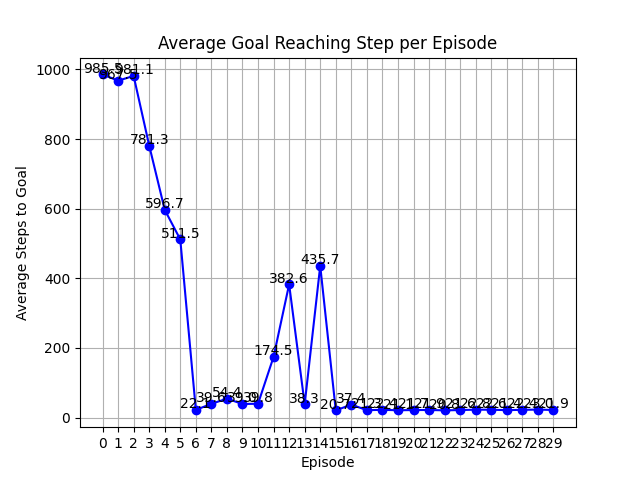
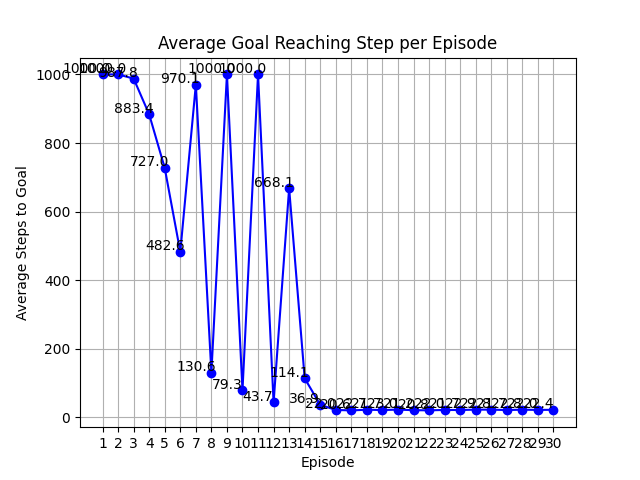
add

Changed region(s): [[0.0625, 0.125, 0.9062, 0.875], [0.1562, 0.9062, 0.875, 0.9375], [0.0625, 0.4062, 0.125, 0.4688]]

diff --git a/Q_plot_eps.py b/Q_plot_eps.py
@@ -56,11 +56,11 @@ def calculate_average_goal_time():
 
 goal_times = calculate_average_goal_time()
 
-plt.plot(range(episodes), goal_times, marker='o', linestyle='-', color='b')
+plt.plot(range(1,episodes+1), goal_times, marker='o', linestyle='-', color='b')
 plt.title('Average Goal Reaching Step per Episode')
 plt.xlabel('Episode')
 plt.ylabel('Average Steps to Goal')
-plt.xticks(range(episodes))
+plt.xticks(range(1,episodes+1))
 plt.grid(True)
 
 for i, goal_time in enumerate(goal_times):

diff --git a/Q_train.py b/Q_train.py
@@ -51,6 +51,6 @@ for episode in range(episodes):
 
     if episode % 1 == 0 or episode == episodes - 1:
         policy = [actions[np.argmax(Q_table[state])] for state in range(n_states)]
-        np.save(f'policy/episode_{episode}.npy', policy)
+        np.save(f'policy/episode_{episode+1}.npy', policy)
 
 print("学習終了")

diff --git a/Q_plot_animation_eps.py b/Q_plot_animation_eps.py
@@ -14,7 +14,7 @@ obstacles = env_settings['obstacles']
 water = env_settings['water']
 actions = env_settings['actions']
 
-episode = 14
+episode = 1
 policy = np.load(f'policy/episode_{episode}.npy')
 
 eps = 0.3

diff --git a/README.md b/README.md
@@ -44,6 +44,16 @@ Q(s, a) \leftarrow (1 - \alpha)Q(s, a) + \alpha \left[ r + \max_{a'} Q(s', a') \
 
 エピソードが進むにつれて、エージェントの行動が効率化されていることがわかります。
 
+1番目のエピソードの学習結果の方策は以下です。
+![エピソード1](images/episode_1.gif)
+
+15番目のエピソードの学習結果の方策は以下です。
+![エピソード15](images/episode_15.gif)
+
+30番目のエピソードの学習結果の方策は以下です。
+![エピソード30](images/episode_30.gif)
+
+
 ## 変数設定
 env.csv内の変数の意味は以下のとおりです。
 |パラメータ|説明|初期値|
